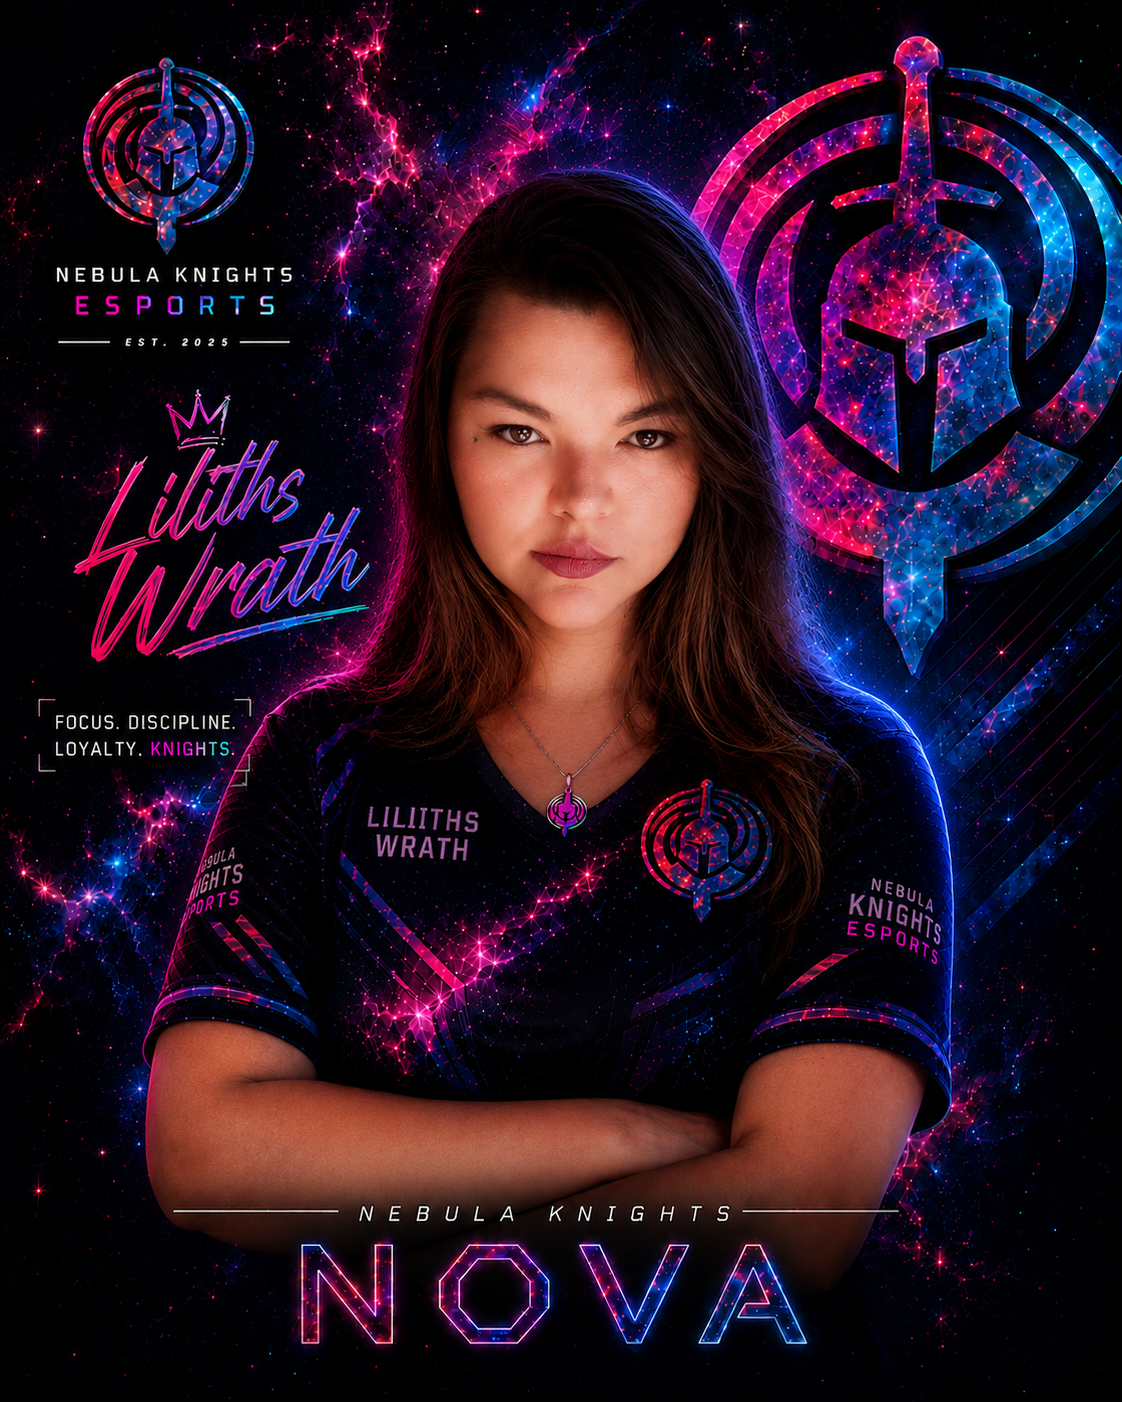
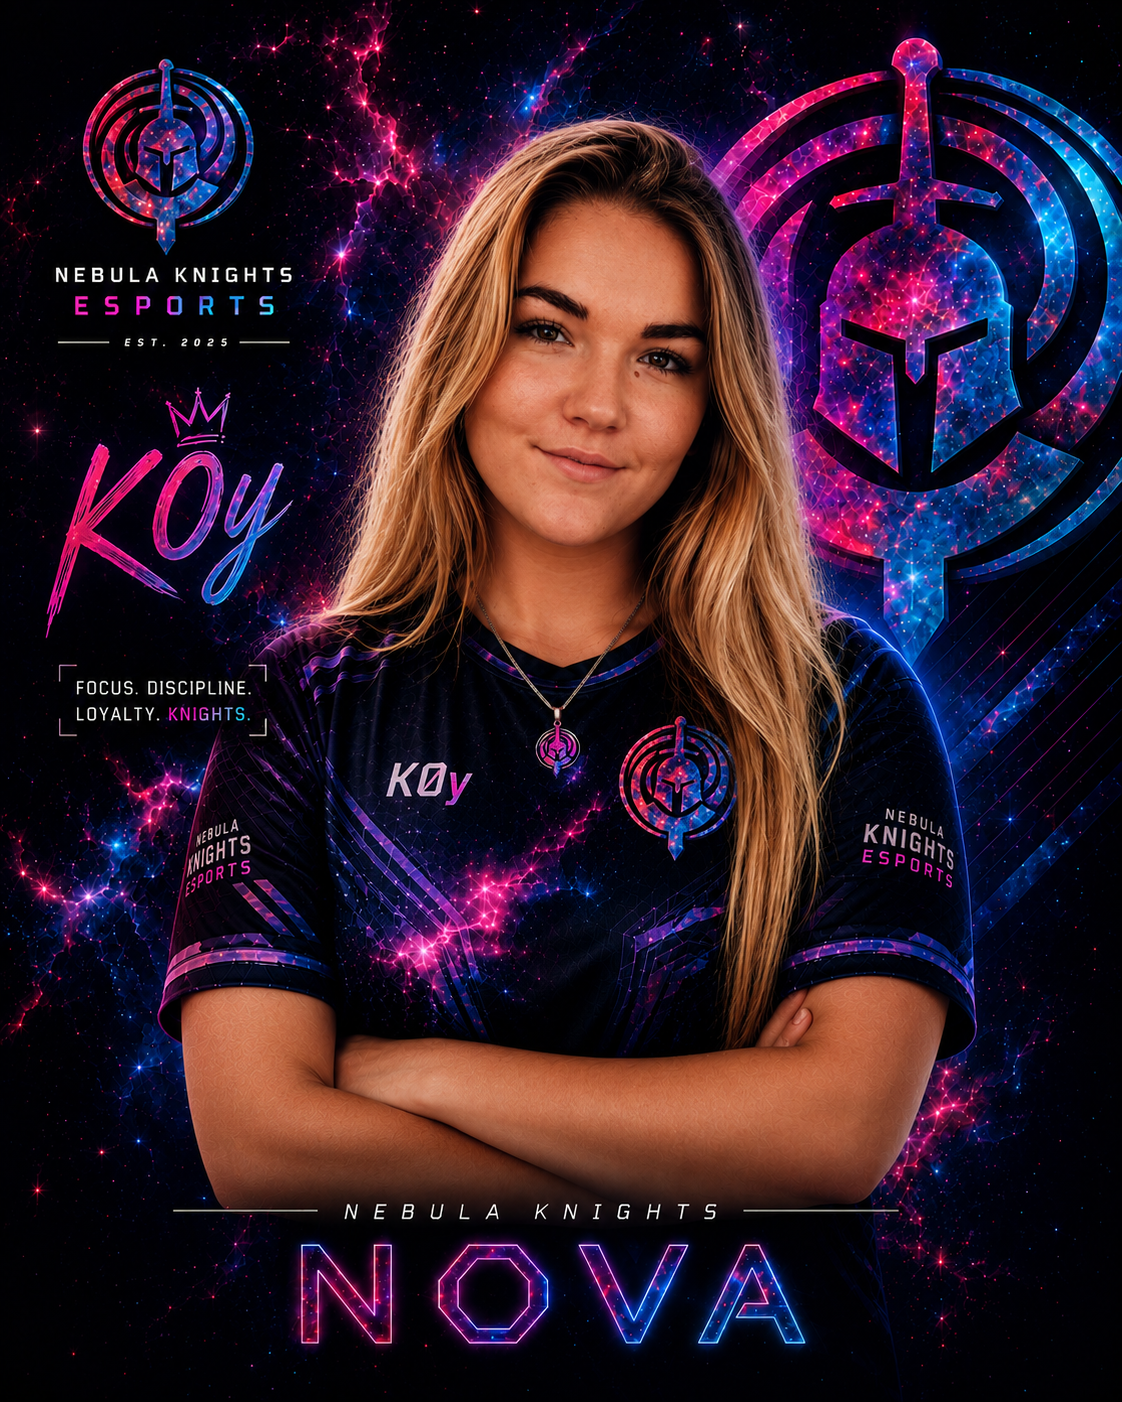
Add player cards

diff --git a/app/teams/nova/page.tsx b/app/teams/nova/page.tsx
@@ -12,24 +12,34 @@ export default function DivinityPage() {
       image: "/players/nova/player2.png",
     },
     {
-      gamertag: "Otakuchingu",
+      gamertag: "Liliths Wrath",
       role: "Sniper",
       image: "/players/nova/player3.png",
     },
     {
-      gamertag: "Liliths Wrath",
+      gamertag: "K0y",
       role: "Sniper",
       image: "/players/nova/player4.png",
     },
     {
-      gamertag: "xX_Slay_Xx",
+      gamertag: "Suki",
       role: "Sniper",
       image: "/players/nova/player5.png",
+    },
+    {
+      gamertag: "xX_Slay_Xx",
+      role: "Sniper",
+      image: "/players/nova/player6.png",
+    },
+    {
+      gamertag: "Otakuchingu",
+      role: "Sniper",
+      image: "/players/nova/player8.png",
     },
      {
       gamertag: "slakkie01",
       role: "Sniper",
-      image: "/players/nova/player6.png",
+      image: "/players/nova/player9.png",
     },
   ];
 
